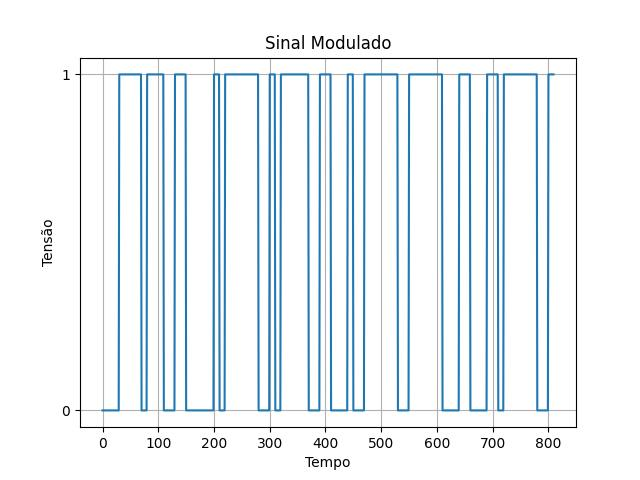
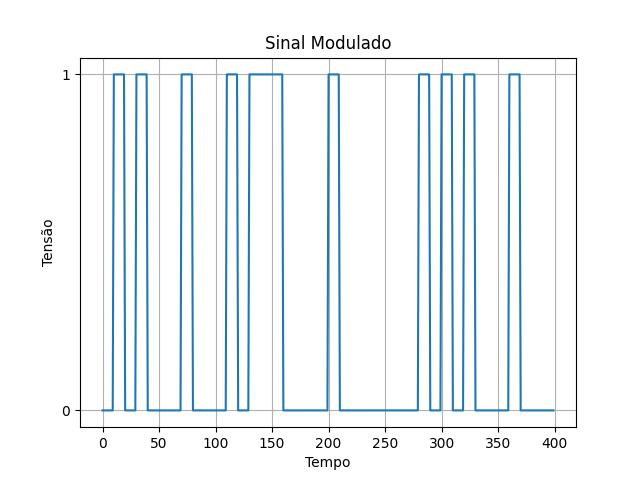
correcao nos graficos

diff --git a/widget.py b/widget.py
@@ -346,6 +346,7 @@ class MainWidget(QWidget):
 
         self.mensagem_codificada = self.CamadaFisica.encode(self.after_hamming)
         self.mensagem_modulada = self.CamadaFisica.modulate(self.after_hamming)
+        print(self.mensagem_codificada)
 
         # adicionar aqui logica para enviar mensagem para o socket, importante incluir mecanismo para mudar taxa de erro
         if (self.Botao_enviar.InputProbErro.text() != '' and self.Botao_enviar.InputProbErro.text() != '0'):
@@ -362,6 +363,9 @@ class MainWidget(QWidget):
         self.transmissor.desconnect()
 
     def Receber_clicked(self):
+
+        self.mensagem_codificada = self.CamadaFisica.encode(self.mensagem_enviada_ou_recebida)
+        self.mensagem_modulada = self.CamadaFisica.modulate(self.mensagem_enviada_ou_recebida)
 
         try: # aqui tentamos detectar e corrigir erro de apenas 1 bit
             self.verificacaoHamming = self.CamadaEnlace.hamming_encoder.detectError(self.mensagem_enviada_ou_recebida)
@@ -457,7 +461,7 @@ class MainWidget(QWidget):
     def Codificado_clicked(self):
 
         if(self.CamadaFisica.modulacao_digital == "Manchester"):
-            self.GraphMaker.MakeManchesterGraph(self.after_hamming, 10)
+            self.GraphMaker.MakeManchesterGraph(self.mensagem_codificada, 10)
         else:
             self.GraphMaker.MakeEncodedGraph(self.after_hamming, 10)
 

diff --git a/camadaFisica.py b/camadaFisica.py
@@ -265,7 +265,7 @@ class GraphMaker():
 
         ax.set_xlabel("Tempo")
         ax.set_ylabel("Tensão")
-        ax.set_title("Sinal Modulado")
+        ax.set_title("Sinal Codificado")
         ax.grid(visible=True)
         ax.plot(x_axis, temp_bits)
         plt.savefig("encoded.jpg")
